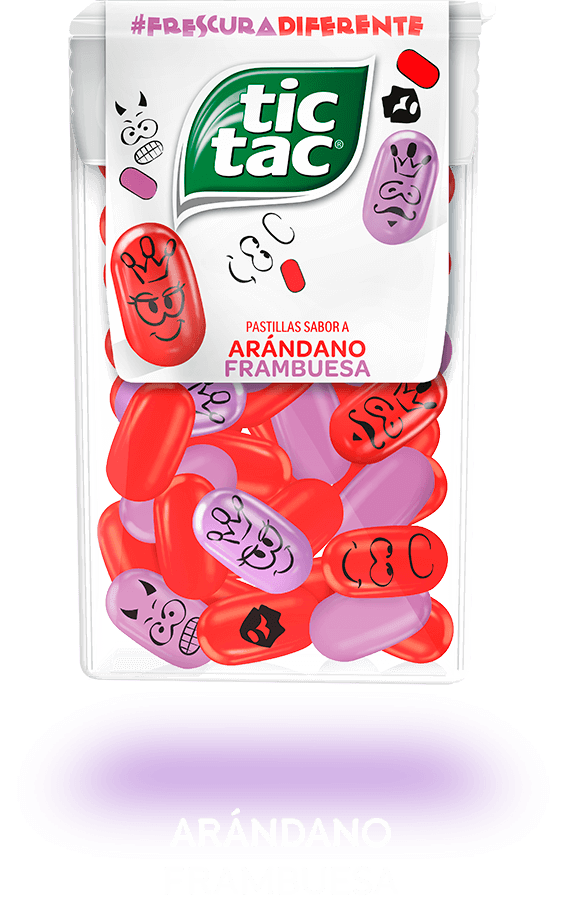
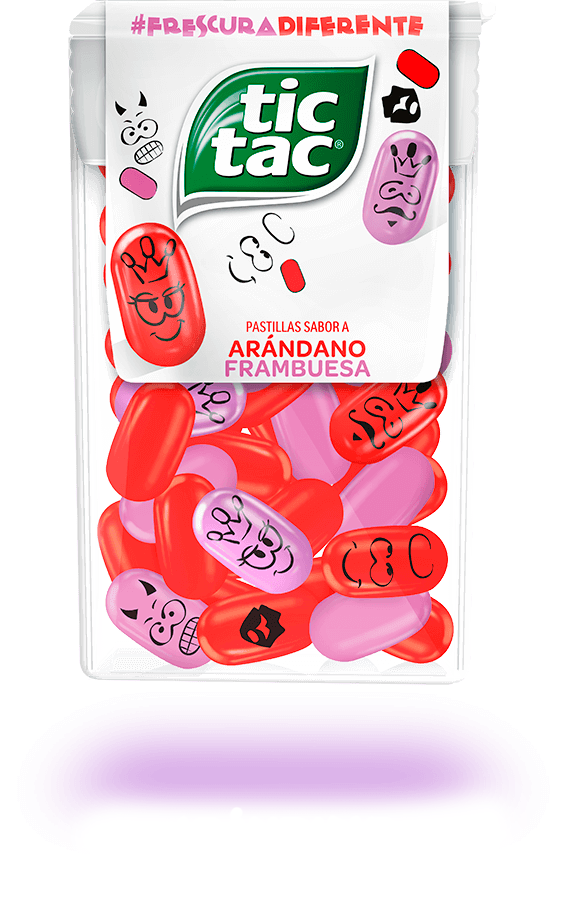
Productos
Version Escritorio

diff --git a/index.html b/index.html
@@ -186,41 +186,6 @@
 		    background-repeat: no-repeat;
 		    background-size: cover;
 		}
-		#container-products {
-			position: relative;
-    		min-height: 300px;
-		}
-		.cajitas {
-			width: 15% !important;
-		}
-		.yerbabuena{
-			position: absolute;
-		    top: 49%;
-		    left: 22.5%;
-		}
-		.naranja{
-		    position: absolute;
-		    top: 70%;
-		    left: 32%;
-		    z-index: 3;
-		}
-		.arandano{
-			position: absolute;
-			top: 90%;
-			left: 42%;
-			z-index: 5;
-		}
-		.fresa{
-			position: absolute;
-		    top: 70%;
-		    left: 52%;
-		    z-index: 3;
-		}
-		.menta{
-			position: absolute;
-		    top: 50%;
-		    left: 62%;
-		}
 		.boton-legales {
 			font-size: 1.2em;
 			position: fixed;
@@ -1271,6 +1236,54 @@
 			<div class="row">
 				<div class="col-lg-12">
 					<style>
+						#container-products {
+							position: relative;
+				    		height: 700px;
+						}
+						.cajitas {
+							width: 15% !important;
+						}
+						.yerbabuena {
+						    position: absolute;
+						    top: 40%;
+						    left: 18.5%;
+						}
+						.naranja{
+						    position: absolute;
+						    top: 45%;
+						    left: 30%;
+						    z-index: 3;
+						}
+						.arandano {
+						    width: 17% !important;
+						    position: absolute;
+						    top: 50%;
+						    left: 42%;
+						    z-index: 5;
+						}
+						.fresa {
+						    position: absolute;
+						    top: 45%;
+						    left: 56%;
+						    z-index: 3;
+						}
+						.menta{
+							position: absolute;
+						    top: 40%;
+						    left: 68%;
+						}
+						.texto-arandano-frambuesa {
+						    position: relative;
+						    top: 16%;
+						    left: 40%;
+						    width: 20%;
+						}
+						.frescura-diferente {
+						    position: relative;
+						    top: 85%;
+						    left: 40%;
+						    width: 20%;
+						}
 						.cajitas {
 							opacity: 0.2;
 							transition: .5s ease;
@@ -1306,6 +1319,12 @@
 							}
 							.cajitas {
 								width: 25% !important;
+							}
+							.texto-arandano-frambuesa {
+
+							}
+							.frescura-diferente {
+
 							}
 							.yerbabuena {
 								position: absolute;
@@ -1344,6 +1363,12 @@
 							.cajitas {
 								width: 40% !important;
 							}
+							.texto-arandano-frambuesa {
+
+							}
+							.frescura-diferente {
+
+							}
 							.yerbabuena {
 								position: absolute;
 								top: 15%;
@@ -1372,6 +1397,12 @@
 							}
 						}
 						@media screen and (max-width: 375px){
+							.texto-arandano-frambuesa {
+
+							}
+							.frescura-diferente {
+
+							}
 							.yerbabuena {
 								position: absolute;
 								top: 8%;
@@ -1403,7 +1434,7 @@
 					<div id="container-products">
 						<img src="./assets/img/parallax/parallax-5.png" class="hidden-xs frutas animated fadeInDownBig" alt="Arandano Frambuesa TicTac">
 
-						<img src="./assets/img/parallax/parallax-5.png" class="hidden-xs frutas animated fadeInDownBig" alt="Arandano Frambuesa TicTac">
+						<img src="./assets/img/productos/arandano-frambuesa-nombre.png" class="img-responsive texto-arandano-frambuesa animated fadeInDownBig" alt="Arandano Frambuesa TicTac">
 						<a>
 							<img src="./assets/img/productos/yerbabuena.png" class="animated pulse infinite cajitas yerbabuena hvr-buzz-out" alt="TicTac Sabor Yerbabuena">
 						</a>
@@ -1424,6 +1455,7 @@
 							<source src="./assets/audio/tictac-sound-08sec.mp3"></source>
 							Actualizate! ¿A tú navegador ya no le gusta la fiesta?
 						</audio>
+						<img src="./assets/img/productos/frescura-diferente.png" class="img-responsive frescura-diferente animated fadeInDownBig" alt="Arandano Frambuesa TicTac">
 					</div>
 					<script>
 						$("#container-products a")
@@ -1444,7 +1476,7 @@
 				</div>
 				<div class="col-lg-12">
 					<a class="boton-legales banda-regular hvr-float-shadow" href="legales.html">
-						Aviso de privacidad
+						Aviso de Privacidad
 					</a>
 				</div>
 			</div>
